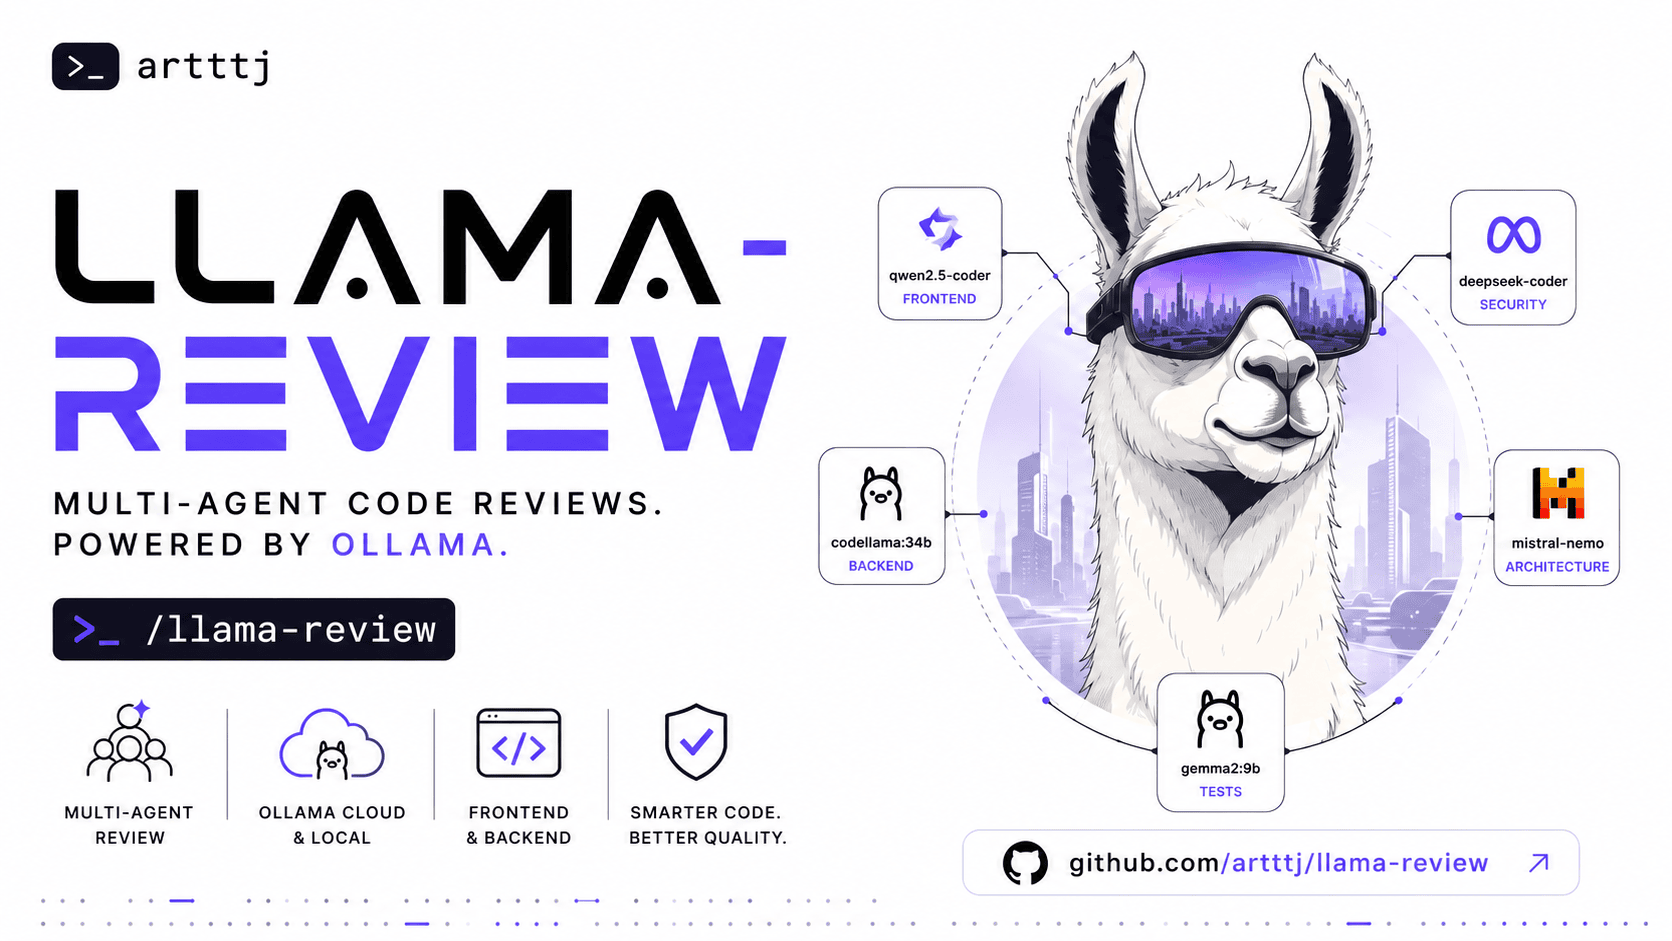
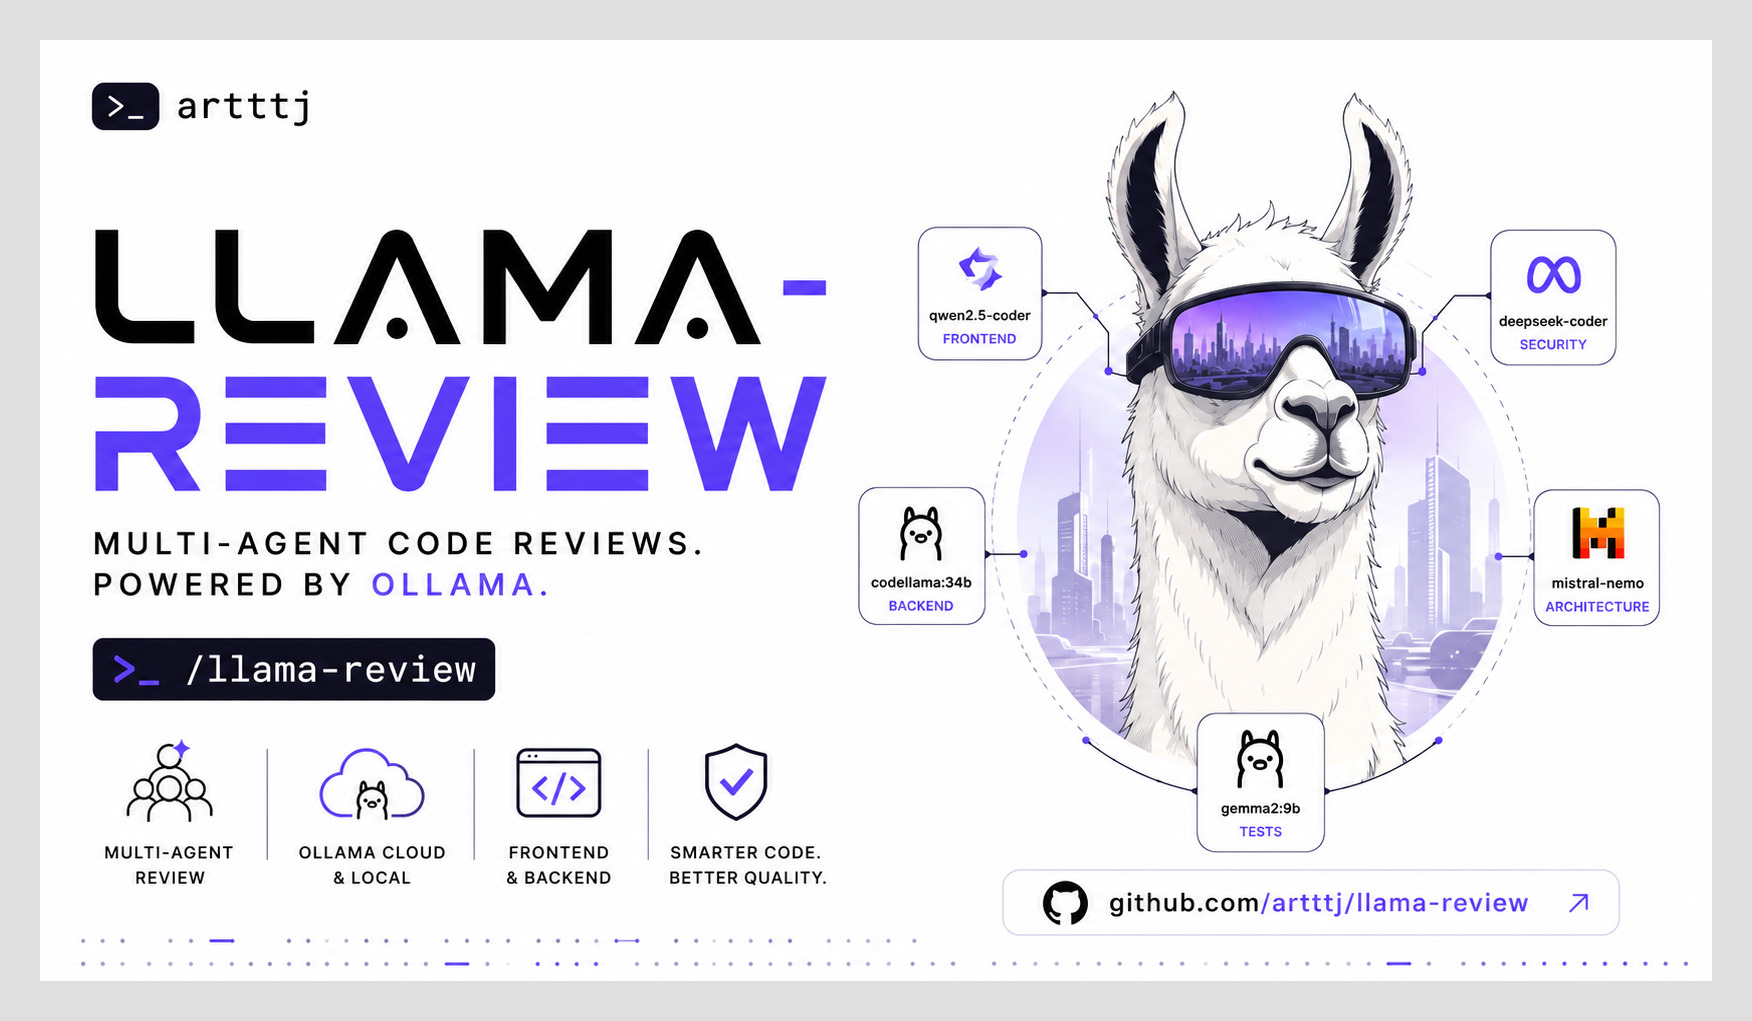
docs: update promo image to bordered version

diff --git a/README.md b/README.md
@@ -2,7 +2,7 @@
 
 [![License: MIT](https://img.shields.io/badge/license-MIT-blue.svg?style=for-the-badge)](LICENSE) ![Claude Code](https://img.shields.io/badge/Claude%20Code-D97757?style=for-the-badge&logo=anthropic&logoColor=white) ![Ollama](https://img.shields.io/badge/Ollama-000000?style=for-the-badge&logo=ollama&logoColor=white)
 
-![Llama Review](llama.png)
+![Llama Review](llama_review.png)
 
 Different models have different strengths. Llama Review assigns the right model to the right task.
 